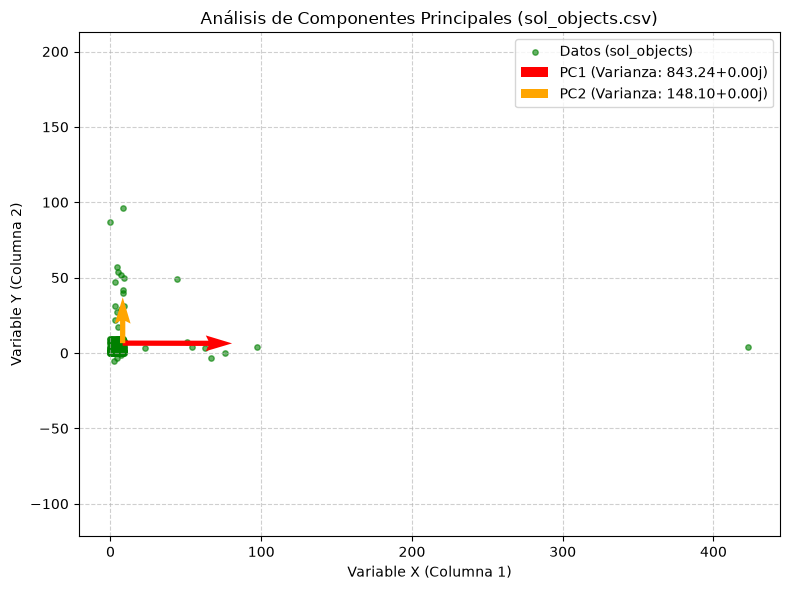
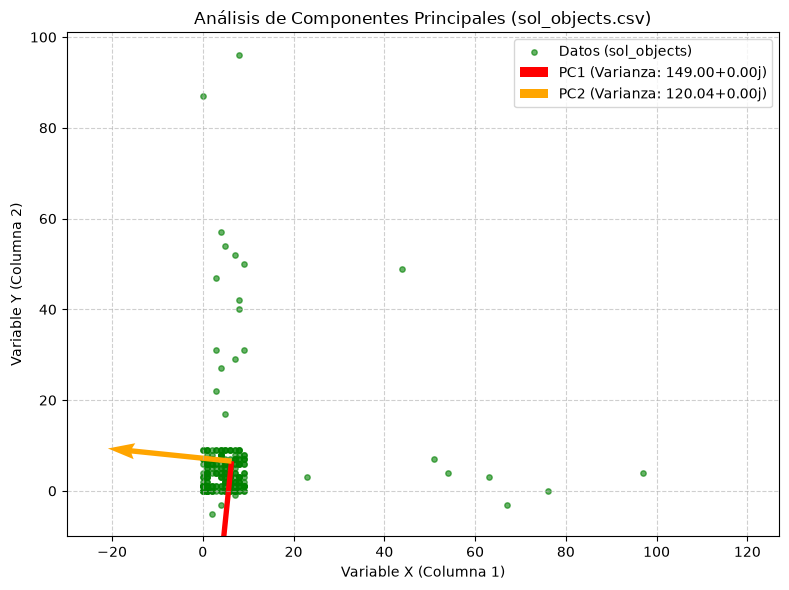
feat: subiendo todo el trabajo realizado

diff --git a/cuatro.py b/cuatro.py
@@ -4,9 +4,9 @@ import matplotlib
 matplotlib.use('Agg')  # Configuración para entorno headless (Codespaces)
 import matplotlib.pyplot as plt
 
-# ==========================================
+
 # 1. Configuración y Generación de Datos
-# ==========================================
+
 N = 1000          # Número de muestras
 sigma_x = 2.0     # Desviación estándar en X
 sigma_y = 0.5     # Desviación estándar en Y
@@ -18,17 +18,17 @@ covarianza_inicial = [[sigma_x**2, 0], [0, sigma_y**2]]
 np.random.seed(42)
 datos_originales = np.random.multivariate_normal(media, covarianza_inicial, N)
 
-# ==========================================
+
 # 2. Aplicación de la Matriz T
-# ==========================================
+
 T = np.array([[1, 2],
               [-1, 0]])
 
 datos_transformados = datos_originales @ T.T
 
-# ==========================================
+
 # 3. Análisis de Componentes Principales (PCA)
-# ==========================================
+
 media_transformada = np.mean(datos_transformados, axis=0)
 datos_centrados = datos_transformados - media_transformada
 
@@ -53,9 +53,9 @@ print(f"Varianza total explicada: {varianza_total:.4f}")
 print(f"Varianza explicada por PC1: {pc1_var:.2f}%")
 print(f"Varianza explicada por PC2: {pc2_var:.2f}%")
 
-# ==========================================
+
 # 4. Visualización y Guardado de Imagen
-# ==========================================
+
 fig, axes = plt.subplots(1, 2, figsize=(14, 6))
 
 # Gráfico 1: Datos Originales
@@ -89,9 +89,8 @@ plt.tight_layout()
 plt.savefig('pca_datos_simulados.png', bbox_inches='tight')
 plt.close()
 
-# ==========================================
 # 5. Exportación de Resultados a Archivo de Texto (.txt)
-# ==========================================
+# 
 archivo_salida_txt = "resultados_pca_simulado.txt"
 
 with open(archivo_salida_txt, "w", encoding="utf-8") as archivo:

diff --git a/cinco.py b/cinco.py
@@ -5,9 +5,9 @@ import matplotlib
 matplotlib.use('Agg')  # Modo headless para Codespaces
 import matplotlib.pyplot as plt
 
-# ==========================================
+
 # 1. Carga Inteligente con Expresiones Regulares
-# ==========================================
+
 nombre_archivo = "sol_objects.ods"
 
 if not os.path.exists(nombre_archivo):
@@ -52,9 +52,8 @@ if solo.shape[0] == 0:
 
 print(f"¡Éxito total! Matriz procesada correctamente. Dimensiones finales: {solo.shape}")
 
-# ==========================================
 # 2. Análisis de Componentes Principales (PCA)
-# ==========================================
+
 media_solo = np.mean(solo, axis=0)
 datos_centrados = solo - media_solo
 
@@ -75,9 +74,8 @@ print(f"Eigenvalores: {eigenvalores_ordenados}")
 print(f"Varianza explicada por PC1: {pc1_var:.2f}%")
 print(f"Varianza explicada por PC2: {pc2_var:.2f}%")
 
-# ==========================================
 # 3. Visualización y Guardado (Headless)
-# ==========================================
+
 plt.figure(figsize=(8, 6))
 
 plt.scatter(solo[:, 0], solo[:, 1], alpha=0.6, s=15, color='green', label='Datos (sol_objects)')
